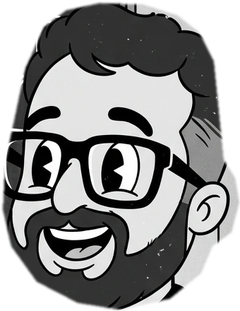
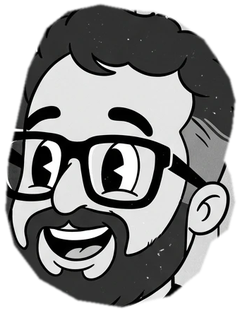
Make the guide character match my illustration
Why: The animated character looked pasted together. My face sat on a
flat body with white outlines, there was a gray patch of wall behind
my hair, and the head looked stuck straight onto the shoulders.

What changed: I recut my face to follow the hair outline and redrew
the body in the same black-ink style as my illustration, with one white
sticker outline around the whole character so it stands out on the
board.

Steps:
- Recut hilton-face.png along the hair edge to remove the wall patch
- Redraw body with neck, collar, short sleeves, gloves and shoes
- Switch body lines from white to black ink and grays
- Add a single white outline and soft shadow around the figure
- Shrink the head slightly and update animation pivot points

Manual Test Plan:
1. Open https://replypaulhilton.github.io
2. Click Ask Hilton and check there's no gray patch behind the hair
3. Check the character has one white outline and black ink lines
4. Watch him walk in, write and nod, and confirm nothing detaches
5. Take the tour and check he still writes on each step

diff --git a/index.html b/index.html
@@ -244,12 +244,13 @@
   }
   .guide.in { transform: translateX(0); }
   .guide svg { width: 100%; height: auto; display: block; overflow: visible; }
-  .guide .body-group { transform-box: view-box; transform-origin: 100px 270px; }
+  .guide .body-group { transform-box: view-box; transform-origin: 100px 285px; }
+  .guide .figure { filter: drop-shadow(2px 0 0 #f3f0e6) drop-shadow(-2px 0 0 #f3f0e6) drop-shadow(0 2px 0 #f3f0e6) drop-shadow(0 -2px 0 #f3f0e6) drop-shadow(0 8px 10px rgba(0,0,0,0.35)); }
   .guide .leg { transform-box: view-box; }
-  .guide #legL { transform-origin: 82px 212px; }
-  .guide #legR { transform-origin: 118px 212px; }
-  .guide #armWrite { transform-box: view-box; transform-origin: 62px 160px; transform: rotate(0deg); transition: transform 0.4s; }
-  .guide #armHold { transform-box: view-box; transform-origin: 138px 160px; }
+  .guide #legL { transform-origin: 85px 228px; }
+  .guide #legR { transform-origin: 115px 228px; }
+  .guide #armWrite { transform-box: view-box; transform-origin: 52px 172px; transform: rotate(0deg); transition: transform 0.4s; }
+  .guide #armHold { transform-box: view-box; transform-origin: 148px 172px; }
   .guide.walking .body-group { animation: bob 0.45s ease-in-out infinite; }
   .guide.walking #legL { animation: stepA 0.45s ease-in-out infinite alternate; }
   .guide.walking #legR { animation: stepB 0.45s ease-in-out infinite alternate; }
@@ -257,7 +258,7 @@
   .guide.walking #armWrite { transform: rotate(-70deg); }
   .guide.writing #armWrite { animation: scribble 0.28s ease-in-out infinite alternate; }
   .guide.idle .body-group { animation: breathe 3s ease-in-out infinite; }
-  .guide .head { transform-box: view-box; transform-origin: 100px 150px; }
+  .guide .head { transform-box: view-box; transform-origin: 100px 128px; }
   .guide.writing .head { animation: nod 0.9s ease-in-out infinite alternate; }
   .guide.walking .head { animation: nod 0.45s ease-in-out infinite alternate; }
   @keyframes bob { 0%, 100% { transform: translateY(0); } 50% { transform: translateY(-5px); } }
@@ -529,47 +530,57 @@
 <button class="guide-launch" id="guide-launch" aria-controls="guide-board"><span class="stick" aria-hidden="true"></span>Ask Hilton</button>
 
 <div class="guide" id="guide" aria-hidden="true">
-  <svg viewBox="0 0 200 290">
-    <ellipse cx="100" cy="280" rx="62" ry="7" fill="rgba(0,0,0,0.3)" />
-    <g class="body-group" stroke="var(--ink)" stroke-width="2.5" stroke-linejoin="round" stroke-linecap="round">
+  <svg viewBox="0 0 200 300">
+    <ellipse cx="100" cy="290" rx="60" ry="6" fill="rgba(0,0,0,0.35)" />
+    <g class="figure">
+    <g class="body-group" stroke="#111" stroke-width="3" stroke-linejoin="round" stroke-linecap="round">
       <!-- Legs -->
       <g class="leg" id="legL">
-        <rect x="70" y="212" width="24" height="54" rx="6" fill="#4a4a4a" />
-        <ellipse cx="78" cy="270" rx="17" ry="8" fill="#111" />
+        <path d="M72 226 L74 274 L96 274 L98 226 Z" fill="#3a3a3a" />
+        <path d="M60 282 Q60 270 76 270 L96 270 Q100 282 92 284 L64 285 Q60 285 60 282 Z" fill="#1a1a1a" />
+        <path d="M70 274 Q76 272 82 274" fill="none" stroke="#777" stroke-width="2" />
       </g>
       <g class="leg" id="legR">
-        <rect x="106" y="212" width="24" height="54" rx="6" fill="#4a4a4a" />
-        <ellipse cx="122" cy="270" rx="17" ry="8" fill="#111" />
+        <path d="M102 226 L104 274 L126 274 L128 226 Z" fill="#3a3a3a" />
+        <path d="M104 270 L124 270 Q140 270 140 282 Q140 285 136 285 L108 284 Q100 282 104 270 Z" fill="#1a1a1a" />
+        <path d="M118 274 Q124 272 130 274" fill="none" stroke="#777" stroke-width="2" />
       </g>
 
       <!-- Arm holding spare chalk -->
       <g id="armHold">
-        <path d="M138 164 Q160 190 151 214" fill="none" stroke-width="17" />
-        <path d="M138 164 Q160 190 151 214" fill="none" stroke="#d6d6d6" stroke-width="12" />
-        <rect x="139" y="193" width="6" height="20" rx="2" fill="#f6a6c8" />
-        <rect x="147" y="190" width="6" height="22" rx="2" fill="#8fd3fe" />
-        <rect x="155" y="194" width="6" height="19" rx="2" fill="#f8e27a" />
-        <circle cx="151" cy="217" r="12" fill="#fff" />
+        <path d="M150 176 Q166 200 158 224" fill="none" stroke-width="16" />
+        <path d="M150 176 Q166 200 158 224" fill="none" stroke="#d6d6d6" stroke-width="10" />
+        <rect x="146" y="205" width="6" height="20" rx="2" fill="#f6a6c8" stroke-width="2" />
+        <rect x="154" y="202" width="6" height="22" rx="2" fill="#8fd3fe" stroke-width="2" />
+        <rect x="162" y="206" width="6" height="19" rx="2" fill="#f8e27a" stroke-width="2" />
+        <path d="M146 224 Q146 236 158 237 Q171 236 170 224 Q170 216 158 216 Q146 216 146 224 Z" fill="#fff" />
+        <path d="M150 222 H166 M150 228 H166" fill="none" stroke-width="1.5" />
       </g>
 
       <!-- Arm writing on the board -->
       <g id="armWrite">
-        <path d="M62 164 Q34 142 34 106" fill="none" stroke-width="17" />
-        <path d="M62 164 Q34 142 34 106" fill="none" stroke="#d6d6d6" stroke-width="12" />
-        <rect x="10" y="92" width="22" height="7" rx="3" fill="#8fd3fe" transform="rotate(-20 21 95)" />
-        <circle cx="34" cy="100" r="12" fill="#fff" />
+        <path d="M50 176 Q30 150 32 112" fill="none" stroke-width="16" />
+        <path d="M50 176 Q30 150 32 112" fill="none" stroke="#d6d6d6" stroke-width="10" />
+        <rect x="8" y="94" width="24" height="8" rx="3" fill="#8fd3fe" transform="rotate(-25 20 98)" stroke-width="2" />
+        <path d="M20 104 Q18 92 30 90 Q44 90 44 102 Q44 114 32 115 Q21 114 20 104 Z" fill="#fff" />
+        <path d="M26 100 Q32 96 38 100" fill="none" stroke-width="1.5" />
       </g>
 
-      <!-- T-shirt -->
-      <path d="M56 160 Q100 146 144 160 L150 222 Q100 232 50 222 Z" fill="#151515" />
-      <ellipse cx="58" cy="170" rx="11" ry="14" fill="#151515" />
-      <ellipse cx="142" cy="170" rx="11" ry="14" fill="#151515" />
-      <rect x="89" y="136" width="22" height="20" rx="4" fill="#d6d6d6" />
+      <!-- T-shirt with short sleeves -->
+      <path d="M54 150 Q60 138 80 136 L120 136 Q140 138 146 150 L152 230 Q100 240 48 230 Z" fill="#1b1b1b" />
+      <path d="M54 150 L38 178 Q48 186 62 182 L66 162" fill="#1b1b1b" />
+      <path d="M146 150 L162 178 Q152 186 138 182 L134 162" fill="#1b1b1b" />
+      <path d="M70 160 Q72 196 66 222 M130 160 Q128 196 134 222" fill="none" stroke="#3a3a3a" stroke-width="2" />
+
+      <!-- Neck and collar -->
+      <path d="M88 118 L88 138 Q100 150 112 138 L112 118 Z" fill="#d6d6d6" />
+      <path d="M84 136 Q100 154 116 136" fill="none" stroke-width="3" />
 
       <!-- Head: Hilton's own face, cut from his illustration -->
       <g class="head">
-        <image href="hilton-face.png" x="48" y="18" width="104" height="135" />
+        <image href="hilton-face.png" x="52" y="4" width="96" height="124" stroke="none" />
       </g>
+    </g>
     </g>
   </svg>
 </div>
